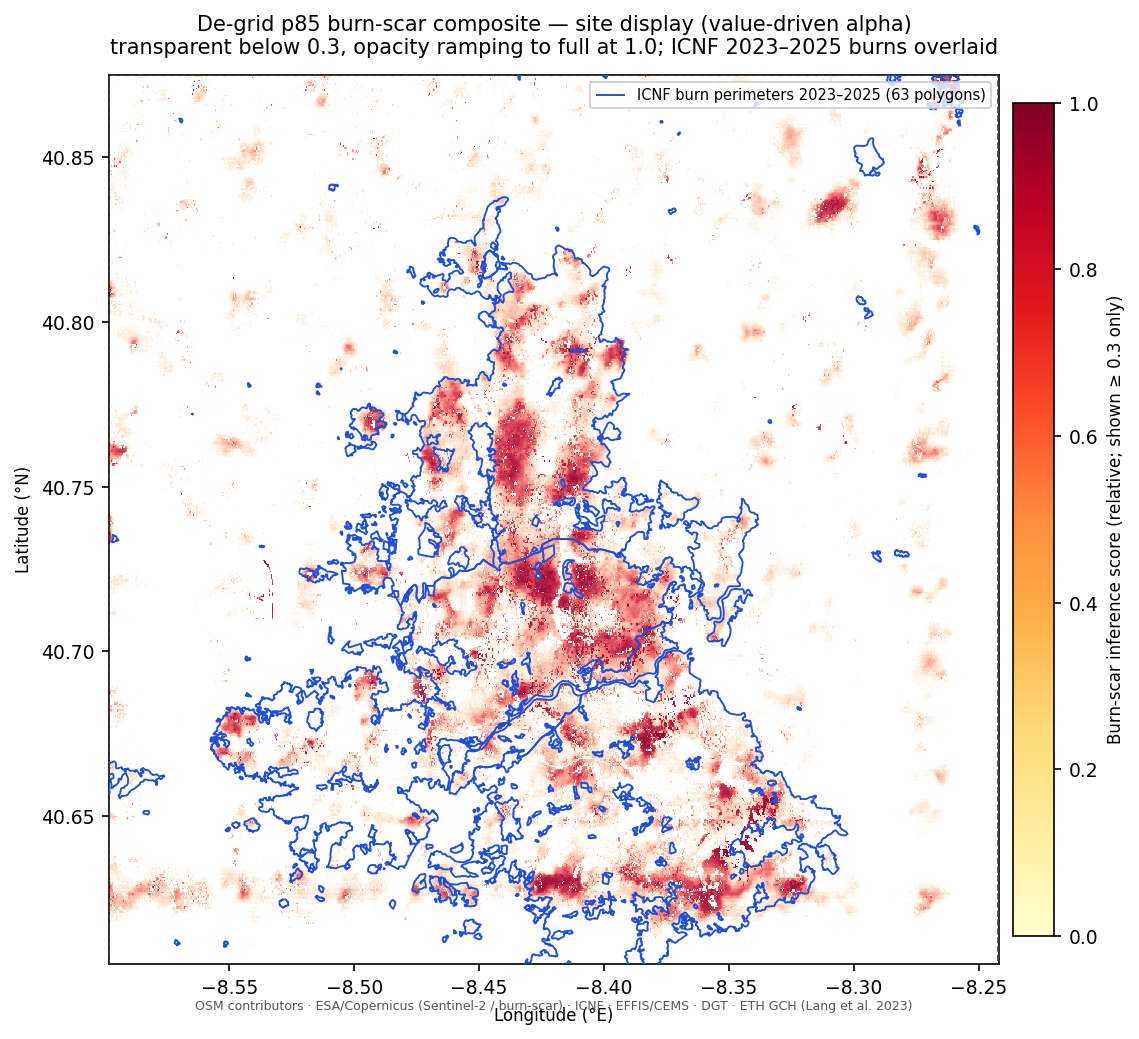
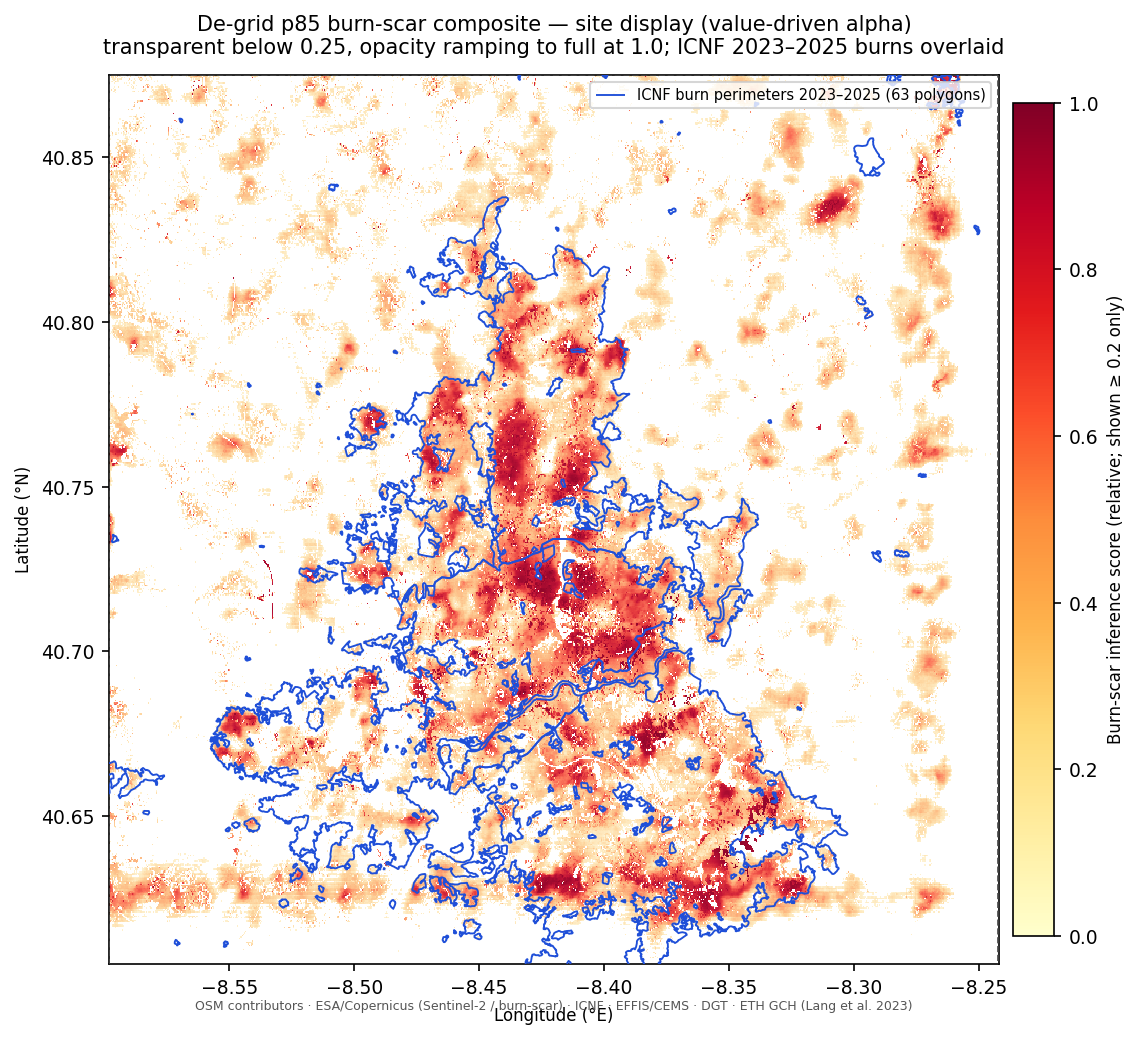
fix(site): surface burn-scar detections — alpha floor 0.3->0.25 + base-opacity + gamma lift
The value-driven-alpha display was hiding most of the detector's recall: the
0.3-0.5 score band (most of the real recent-scar detections) rendered nearly
invisible, so the layer read as under-detecting vs the burns. Lower the floor to
0.25 and add a base floor-opacity (0.30) + gamma 0.6 low-band lift — surfaces
~78% of the ICNF 2023-25 burns (was ~52%) while the unburned west stays clear
(no wash returns). Display-only; the COG/R2 artifact is unchanged. app.js and
scripts/17 (ALPHA_FLOOR/BASE/GAMMA) kept in sync; fig7 + caption regenerated.

diff --git a/docs/app/app.js b/docs/app/app.js
@@ -255,11 +255,16 @@ async function main() {
   /* Burn-scar display: value-driven alpha. The COG stays a continuous
    * inference-score raster in [0, 1]; we only change how it is painted.
    * Scores below BURN_ALPHA_FLOOR are fully transparent (kills the low-score
-   * "wash"); above it the YlOrRd hue is kept and opacity ramps linearly to
-   * full at 1.0, so genuine scars stand out. Keep this rule in sync with
-   * scripts/17_burn_scar_optimization_figures.py (ALPHA_FLOOR). The score is a
-   * relative model output, never a calibrated probability or a forecast. */
-  const BURN_ALPHA_FLOOR = 0.3;
+   * "wash"); at/above it the YlOrRd hue is kept and opacity =
+   * BASE + (1-BASE)*t^GAMMA with t = (p-floor)/(1-floor). The BASE floor-opacity
+   * and GAMMA<1 lift the 0.25-0.5 band so the full recent-scar extent shows
+   * (~78% of the ICNF 2023-25 burns), not just the saturated cores. Keep in sync
+   * with scripts/17_burn_scar_optimization_figures.py (ALPHA_FLOOR/BASE/GAMMA).
+   * The score is a relative model output, never a calibrated probability or a
+   * forecast. */
+  const BURN_ALPHA_FLOOR = 0.25;
+  const BURN_ALPHA_BASE = 0.3;
+  const BURN_ALPHA_GAMMA = 0.6;
   const burnScarUrl = style.artifacts.burn_scar.href;
   MaplibreCOGProtocol.setColorFunction(burnScarUrl, (pixel, color, metadata) => {
     const p = pixel[0];
@@ -267,7 +272,8 @@ async function main() {
       color.set([0, 0, 0, 0]);
     } else {
       const idx = Math.max(0, Math.min(255, Math.round(p * 255)));
-      const alpha = Math.round(255 * Math.min(1, (p - BURN_ALPHA_FLOOR) / (1 - BURN_ALPHA_FLOOR)));
+      const t = Math.pow(Math.min(1, (p - BURN_ALPHA_FLOOR) / (1 - BURN_ALPHA_FLOOR)), BURN_ALPHA_GAMMA);
+      const alpha = Math.round(255 * (BURN_ALPHA_BASE + (1 - BURN_ALPHA_BASE) * t));
       color.set([...style.ylorrd_lut[idx], alpha]);
     }
   });

diff --git a/docs/index.html b/docs/index.html
@@ -73,7 +73,7 @@
         <p class="caption">Prithvi-EO-2.0 burn-scar <em>inference score</em> (de-grid p85 composite,
           Jun 2025–Jun 2026 Sentinel-2 window): detection of already-burned areas. As a recent-scar
           detector against ICNF 2023–2025 burns it reaches F1 0.64 (precision 0.81 at the 0.5 threshold).
-          Shown with value-driven opacity — transparent below 0.3, ramping to full at 1.0 — so genuine
+          Shown with value-driven opacity — transparent below 0.25, low band lifted so the full recent-scar extent shows — so genuine
           scars stand out; the underlying COG is a continuous relative score, <em>not</em> a calibrated
           probability and <em>not</em> a fire forecast. Streamed from Cloudflare R2 (~46 MB COG; loads on toggle).</p>
       </div>

diff --git a/scripts/17_burn_scar_optimization_figures.py b/scripts/17_burn_scar_optimization_figures.py
@@ -52,9 +52,12 @@ _FIGS_DIR = _ROOT / "docs" / "figures"
 _AOI_PILOT = _ROOT / "data" / "aoi" / "pilot.geojson"
 
 SEED = 42
-#: Site display rule (mirrors docs/app/app.js): transparent below this, then a
-#: linear opacity ramp to full at 1.0. Keep in sync with app.js.
-ALPHA_FLOOR = 0.3
+#: Site display rule (mirrors docs/app/app.js): transparent below ALPHA_FLOOR,
+#: then opacity = BASE + (1-BASE)*t**GAMMA with t=(p-floor)/(1-floor). The BASE
+#: floor-opacity + GAMMA<1 lift the 0.25-0.5 band. Keep in sync with app.js.
+ALPHA_FLOOR = 0.25
+ALPHA_BASE = 0.3
+ALPHA_GAMMA = 0.6
 #: Recent multi-year vintages used as the detection truth overlay.
 TRUTH_YEARS = [2023, 2024, 2025]
 
@@ -89,15 +92,17 @@ def _value_driven_rgba(data: np.ndarray) -> np.ndarray:
     """YlOrRd colours with the site's value-driven alpha (transparent < floor).
 
     Returns an (H, W, 4) RGBA array: hue from YlOrRd over [0, 1]; alpha 0 below
-    ALPHA_FLOOR, then a linear ramp 0 -> 1 over [ALPHA_FLOOR, 1.0]. NaN -> fully
-    transparent. This is the same rule docs/app/app.js applies client-side.
+    ALPHA_FLOOR, then BASE + (1-BASE)*t**GAMMA with t=(p-floor)/(1-floor) over
+    [ALPHA_FLOOR, 1.0] (base floor-opacity + gamma<1 lift the low band). NaN ->
+    fully transparent. This is the same rule docs/app/app.js applies client-side.
     """
     cmap = plt.get_cmap("YlOrRd")
     norm = Normalize(vmin=0.0, vmax=1.0)
     rgba = cmap(norm(np.nan_to_num(data, nan=0.0)))
     span = max(1.0 - ALPHA_FLOOR, 1e-6)
-    alpha = np.clip((data - ALPHA_FLOOR) / span, 0.0, 1.0)
-    alpha[~np.isfinite(data)] = 0.0
+    t = np.clip((data - ALPHA_FLOOR) / span, 0.0, 1.0) ** ALPHA_GAMMA
+    alpha = ALPHA_BASE + (1.0 - ALPHA_BASE) * t
+    alpha[(data < ALPHA_FLOOR) | ~np.isfinite(data)] = 0.0
     rgba[..., 3] = alpha
     return rgba
 